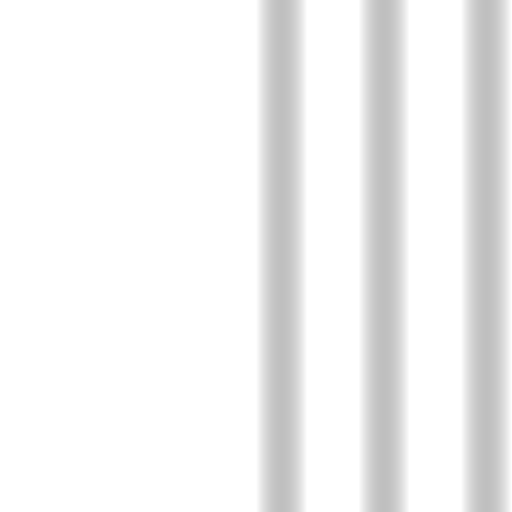
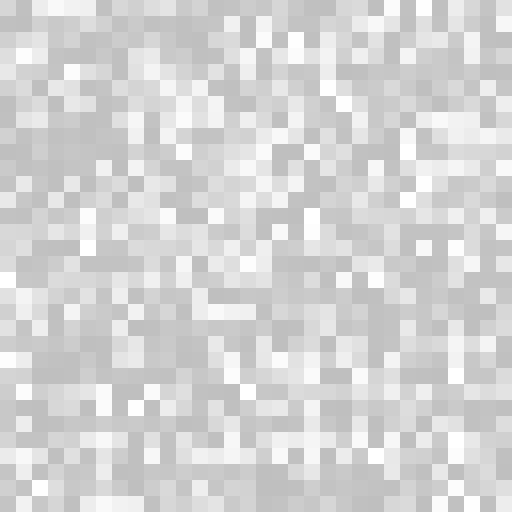
Basic value noise generation works, I guess

diff --git a/Assets/Scripts/Functions/NoiseGenerator.cs b/Assets/Scripts/Functions/NoiseGenerator.cs
@@ -49,7 +49,7 @@ public static class NoiseGenerator
         int pixHeight = sourceTex.height;
         float stepSize = 1f / pixHeight;
         sourceTex = new Texture2D(pixWidth, pixHeight);
-        float frequency = 10f;
+        float frequency = 32f;
         Vector3 point00 = new Vector3(-0.5f,-0.5f);
         Vector3 point10 = new Vector3( 0.5f,-0.5f);
         Vector3 point01 = new Vector3(-0.5f, 0.5f);
@@ -62,18 +62,51 @@ public static class NoiseGenerator
             for (int x = 0; x < pixWidth; x++)
             {
                 Vector3 point = Vector3.Lerp(point0, point1, (x + 0.5f) * stepSize);
-                Debug.Log(Value(point, frequency));
-                sourceTex.SetPixel(x, y, Color.white * Value(point, frequency));
+                
+                sourceTex.SetPixel(x, y, Color.white * Value2D(point, frequency));
             }
         }
+
         sourceTex.Apply();
         return sourceTex;
     }
 
-    public static float Value(Vector3 point, float frequency)
+    public static float Value1D(Vector3 point, float frequency)
     {
         point *= frequency;
-        float i = point.x;
-        return i % 2;
+        int i = Mathf.FloorToInt(point.x);
+        i &= 15;
+        return hash[i] * (1f / hashMask);
     }
+    
+    public static float Value2D(Vector3 point, float frequency)
+    {
+        point *= frequency;
+        int ix = Mathf.FloorToInt(point.x);
+        int iy = Mathf.FloorToInt(point.y);
+        ix &= hashMask;
+        iy &= hashMask;
+        return hash[(ix + hash[iy]) & hashMask] * (1f / hashMask);
+    }
+
+    private static int[] hash = {
+        151,160,137, 91, 90, 15,131, 13,201, 95, 96, 53,194,233,  7,225,
+        140, 36,103, 30, 69,142,  8, 99, 37,240, 21, 10, 23,190,  6,148,
+        247,120,234, 75,  0, 26,197, 62, 94,252,219,203,117, 35, 11, 32,
+        57,177, 33, 88,237,149, 56, 87,174, 20,125,136,171,168, 68,175,
+        74,165, 71,134,139, 48, 27,166, 77,146,158,231, 83,111,229,122,
+        60,211,133,230,220,105, 92, 41, 55, 46,245, 40,244,102,143, 54,
+        65, 25, 63,161,  1,216, 80, 73,209, 76,132,187,208, 89, 18,169,
+        200,196,135,130,116,188,159, 86,164,100,109,198,173,186,  3, 64,
+        52,217,226,250,124,123,  5,202, 38,147,118,126,255, 82, 85,212,
+        207,206, 59,227, 47, 16, 58, 17,182,189, 28, 42,223,183,170,213,
+        119,248,152,  2, 44,154,163, 70,221,153,101,155,167, 43,172,  9,
+        129, 22, 39,253, 19, 98,108,110, 79,113,224,232,178,185,112,104,
+        218,246, 97,228,251, 34,242,193,238,210,144, 12,191,179,162,241,
+        81, 51,145,235,249, 14,239,107, 49,192,214, 31,181,199,106,157,
+        184, 84,204,176,115,121, 50, 45,127,  4,150,254,138,236,205, 93,
+        222,114, 67, 29, 24, 72,243,141,128,195, 78, 66,215, 61,156,180
+    };
+
+    private const int hashMask = 255;
 }
